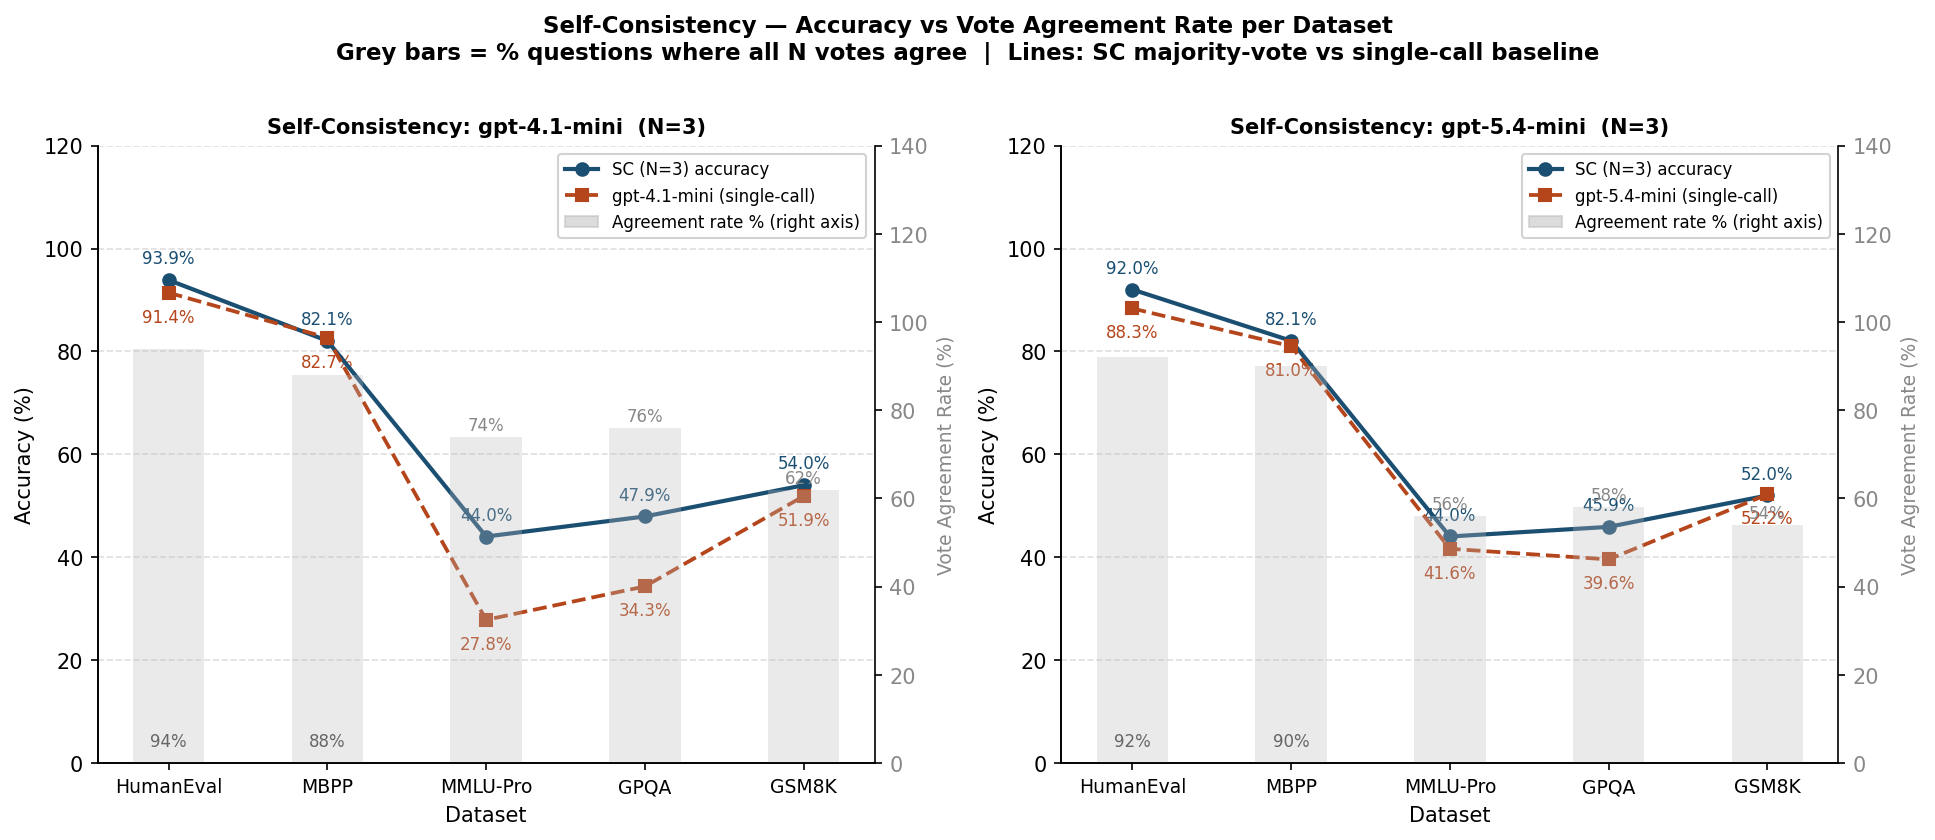
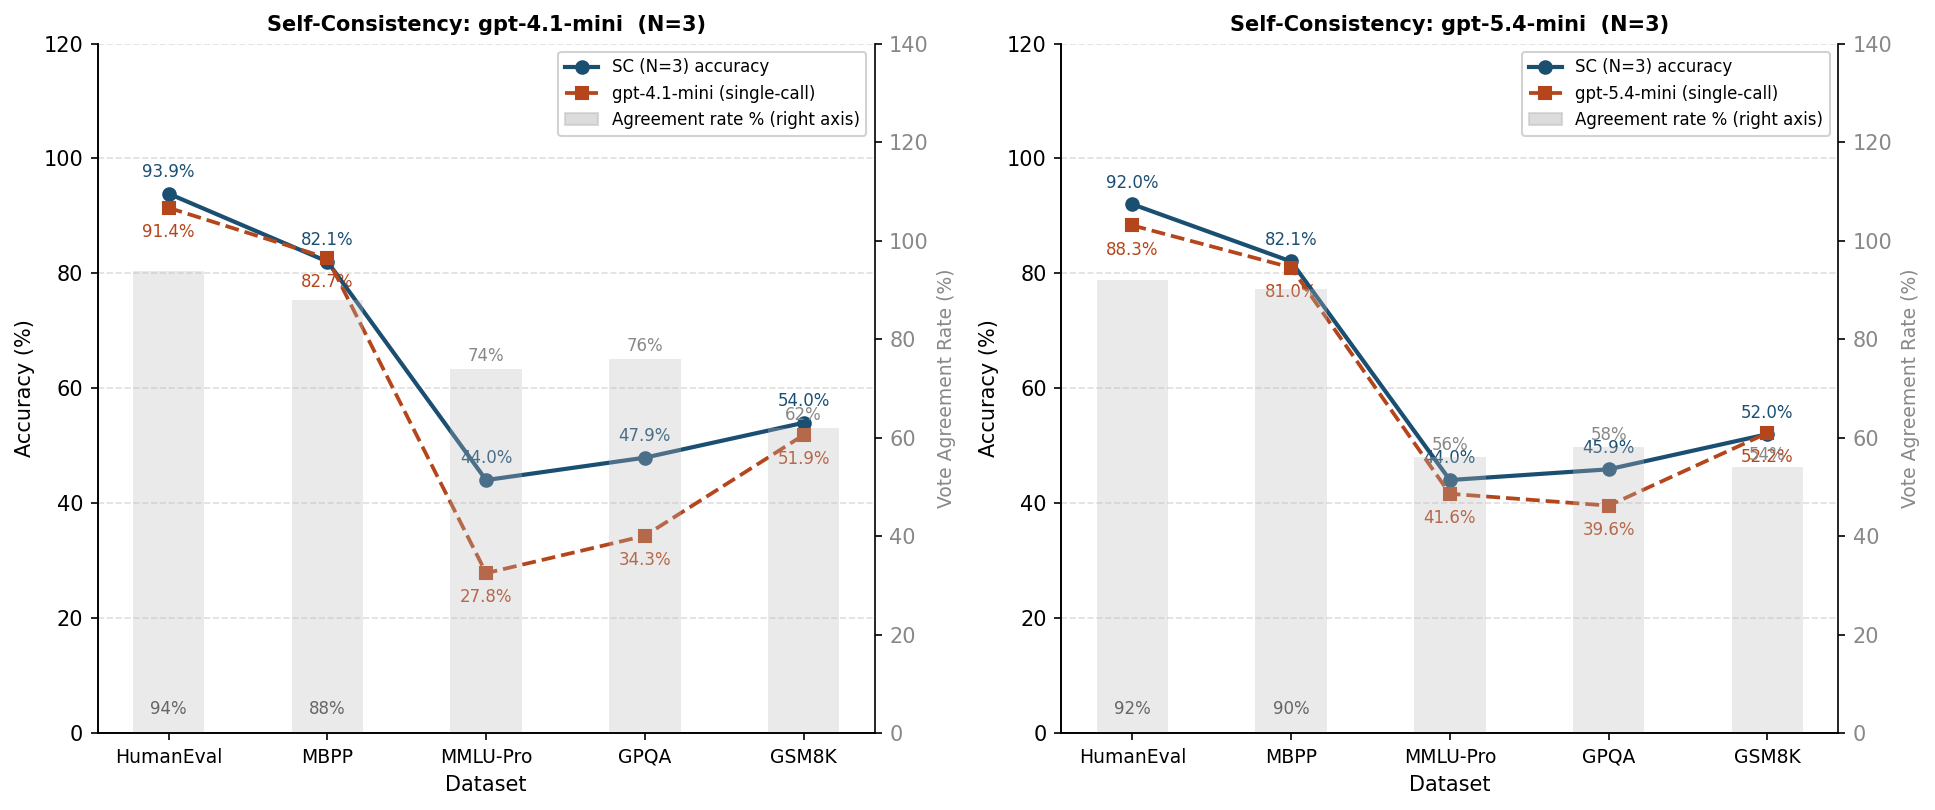
chart headers modified

diff --git a/visualize.py b/visualize.py
@@ -24,7 +24,7 @@ Self-consistency charts (SC prefix):
   SC2. chartSC2_selfcons_dual_heatmap.png              — Reward & cost heatmap (SC configs vs standalone)
   SC3. chartSC3_selfcons_best_config_heatmap.png       — Heatmap: best option (SC OR standalone) by (λ_error, λ_latency)
   SC4. chartSC4_selfcons_reward_vs_lambda_error.png    — Penalty vs λ_error: SC vs base model
-  SC6. chartSC6_selfcons_accuracy_comparison.png        — Grouped bar: accuracy per dataset, SC vs standalone
+  SC5. chartSC5_selfcons_accuracy_comparison.png        — Grouped bar: accuracy per dataset, SC vs standalone
 
 Router charts (R prefix):
   R1.  chartR1_router_overview.png                — Accuracy + routing split per dataset
@@ -484,13 +484,8 @@ def chart5_reward_vs_lambda_error(model_folders: dict):
     ax.axvline(LAMBDA_ERROR_DEFAULT, color="gray", linestyle=":", lw=1, label=f"default λ_error={LAMBDA_ERROR_DEFAULT}")
     ax.set_xlabel("λ_error  (error penalty weight)")
     ax.set_ylabel("Economic Penalty  (lower = better)")
-    # Build legend with model lines + reasoning/standard type indicators
     handles, labels = ax.get_legend_handles_labels()
-    type_handles = [
-        plt.Line2D([0], [0], color="gray", lw=2, linestyle="--", label="Reasoning model"),
-        plt.Line2D([0], [0], color="gray", lw=2, linestyle="-",  label="Standard model"),
-    ]
-    ax.legend(handles=handles + type_handles, labels=labels + ["Reasoning model", "Standard model"],
+    ax.legend(handles=handles, labels=labels,
               fontsize=8, framealpha=0.8, loc="upper left",
               bbox_to_anchor=(1.01, 1), borderaxespad=0)
     ax.yaxis.grid(True, linestyle="--", alpha=0.4)
@@ -547,13 +542,8 @@ def chart6_reward_vs_lambda_latency(model_folders: dict):
     ax.axvline(LAMBDA_LATENCY_DEFAULT, color="gray", linestyle=":", lw=1, label=f"default λ_latency={LAMBDA_LATENCY_DEFAULT}")
     ax.set_xlabel("λ_latency  (latency penalty weight)")
     ax.set_ylabel("Economic Penalty  (lower = better)")
-    # Build legend with model lines + reasoning/standard type indicators
     handles, labels = ax.get_legend_handles_labels()
-    type_handles = [
-        plt.Line2D([0], [0], color="gray", lw=2, linestyle="--", label="Reasoning model"),
-        plt.Line2D([0], [0], color="gray", lw=2, linestyle="-",  label="Standard model"),
-    ]
-    ax.legend(handles=handles + type_handles, labels=labels + ["Reasoning model", "Standard model"],
+    ax.legend(handles=handles, labels=labels,
               fontsize=8, framealpha=0.8, loc="upper left",
               bbox_to_anchor=(1.01, 1), borderaxespad=0)
     ax.set_yticks(ytick_pos)
@@ -614,7 +604,7 @@ def chart7_best_model_heatmap(model_folders: dict):
     ax.set_yticklabels([f"{lam_lats[t]:.3f}" for t in y_ticks])
     ax.set_xlabel("λ_error  (error penalty weight)")
     ax.set_ylabel("λ_latency  (latency penalty weight)")
-    ax.set_title("Best Model Decision Map\n(cell colour = model with highest macro-avg reward)")
+    ax.set_title("Best Model Decision Map\n(cell colour = option with highest macro-avg reward)")
 
     # Mark default operating point
     def_e = np.argmin(np.abs(lam_errors - LAMBDA_ERROR_DEFAULT))
@@ -687,7 +677,7 @@ def chart8_best_model_heatmap_per_dataset(model_folders: dict):
         ax.set_xticklabels([f"{lam_errors[t]:.1f}" for t in x_ticks], fontsize=8)
         ax.set_yticks(y_ticks)
         ax.set_yticklabels([f"{lam_lats[t]:.3f}" for t in y_ticks], fontsize=8)
-        ax.set_title(stem.upper(), fontsize=11, fontweight="bold")
+        ax.set_title(stem.upper(), fontsize=11)
         if col == 0:
             ax.set_ylabel("λ_latency", fontsize=9)
         if row == nrows - 1:
@@ -712,8 +702,8 @@ def chart8_best_model_heatmap_per_dataset(model_folders: dict):
 
     fig.suptitle(
         "Best Standalone Model per Dataset\n"
-        "(cell colour = model with highest avg reward at that λ_error × λ_latency)",
-        fontsize=13, fontweight="bold",
+        "(cell colour = option with highest macro-avg reward)",
+        fontsize=13,
     )
     fig.tight_layout(rect=[0, 0.06, 1, 1])
     _save(fig, "chart8_best_model_heatmap_per_dataset.png")
@@ -978,12 +968,6 @@ def chart_c1_cascade_combined_overview(cascade_data: dict):
         row, col = divmod(idx, ncols)
         axes[row][col].set_visible(False)
 
-    fig.suptitle(
-        "Cascade — Escalation Rate & Accuracy across Confidence Thresholds\n"
-        "Grey bars = % questions sent to large model  |  "
-        "Lines = accuracy  |  n=X = actual number of escalated questions",
-        fontsize=11, fontweight="bold", y=1.01,
-    )
     fig.tight_layout()
     _save(fig, "chartC1_cascade_combined_overview.png")
 
@@ -1055,8 +1039,6 @@ def chart_c2_cascade_dual_heatmap(cascade_data: dict):
                          "RdYlGn_r", "Avg Cost (m$)")
     fig.colorbar(im2, ax=ax2, shrink=0.8, label="Avg Cost (m$)")
 
-    fig.suptitle("Cascade: Reward vs Cost by Configuration × Threshold",
-                 fontsize=13, fontweight="bold", y=1.01)
     fig.tight_layout()
     _save(fig, "chartC2_cascade_dual_heatmap.png")
 
@@ -1179,7 +1161,7 @@ def chart_c3_cascade_best_config_heatmap(model_folders: dict):
     ax.set_ylabel("λ_latency  (latency penalty weight)", fontsize=11)
     ax.set_title(
         "Best Option Decision Map: Cascade vs Standalone\n"
-        "(cell colour = option with highest macro-avg reward at those penalty weights)",
+        "(cell colour = option with highest macro-avg reward)",
         fontsize=12, fontweight="bold",
     )
 
@@ -1371,7 +1353,7 @@ def chart_c6_cascade_per_dataset_decision_map(model_folders: dict):
 
     fig.suptitle(
         "Cascade: Best Option Decision Map — Per Dataset\n"
-        "(cell = option with highest reward at those λ_error × λ_latency weights)",
+        "(cell colour = option with highest macro-avg reward)",
         fontsize=12, fontweight="bold",
     )
     fig.tight_layout()
@@ -1485,12 +1467,6 @@ def chart_c4_cascade_reward_vs_lambda_error():
         row, col = divmod(idx, ncols)
         axes[row][col].set_visible(False)
 
-    fig.suptitle(
-        "Cascade: Economic Penalty vs λ_error\n"
-        "Each panel = one small→large config pair  |  "
-        "Lines = confidence threshold (T=60 / 75 / 90)",
-        fontsize=12, fontweight="bold", y=1.01,
-    )
     fig.tight_layout()
     _save(fig, "chartC4_cascade_reward_vs_lambda_error.png")
 
@@ -1610,12 +1586,6 @@ def chart_c5_cascade_reward_vs_lambda_latency():
         row, col = divmod(idx, ncols)
         axes[row][col].set_visible(False)
 
-    fig.suptitle(
-        "Cascade: Economic Penalty vs λ_latency\n"
-        "Each panel = one small→large config pair  |  "
-        "Lines = confidence threshold (T=60 / 75 / 90)",
-        fontsize=12, fontweight="bold", y=1.01,
-    )
     fig.tight_layout()
     _save(fig, "chartC5_cascade_reward_vs_lambda_latency.png")
 
@@ -1830,12 +1800,6 @@ def chart_sc1_selfcons_overview(sc_data: dict, model_folders: dict):
         row, col = divmod(idx, ncols)
         axes[row][col].set_visible(False)
 
-    fig.suptitle(
-        "Self-Consistency — Accuracy vs Vote Agreement Rate per Dataset\n"
-        "Grey bars = % questions where all N votes agree  |  "
-        "Lines: SC majority-vote vs single-call baseline",
-        fontsize=11, fontweight="bold", y=1.01,
-    )
     fig.tight_layout()
     _save(fig, "chartSC1_selfcons_overview.png")
 
@@ -1934,8 +1898,6 @@ def chart_sc2_selfcons_dual_heatmap(sc_data: dict, model_folders: dict):
     ax2.set_xlabel("Dataset", fontsize=10)
     fig.colorbar(im2, ax=ax2, shrink=0.8, label="Avg Cost (m$)")
 
-    fig.suptitle("Self-Consistency vs Standalone: Reward & Cost by Dataset",
-                 fontsize=13, fontweight="bold", y=1.01)
     fig.tight_layout()
     _save(fig, "chartSC2_selfcons_dual_heatmap.png")
 
@@ -2026,7 +1988,7 @@ def chart_sc3_selfcons_best_config_heatmap(sc_data: dict, model_folders: dict):
     ax.set_ylabel("λ_latency  (latency penalty weight)", fontsize=11)
     ax.set_title(
         "Best Option Decision Map: Self-Consistency vs Standalone\n"
-        "(cell colour = option with highest macro-avg reward at those penalty weights)",
+        "(cell colour = option with highest macro-avg reward)",
         fontsize=12, fontweight="bold",
     )
 
@@ -2205,11 +2167,6 @@ def chart_sc4_selfcons_reward_vs_lambda_error(sc_data: dict, model_folders: dict
         row, col = divmod(idx, ncols)
         axes[row][col].set_visible(False)
 
-    fig.suptitle(
-        "Self-Consistency: Economic Penalty vs λ_error\n"
-        "Solid = SC majority-vote  |  Dashed = single-call base model",
-        fontsize=12, fontweight="bold", y=1.01,
-    )
     fig.tight_layout()
     _save(fig, "chartSC4_selfcons_reward_vs_lambda_error.png")
 
@@ -2218,7 +2175,7 @@ def chart_sc4_selfcons_reward_vs_lambda_error(sc_data: dict, model_folders: dict
 # Chart SC6 — SC vs standalone accuracy comparison (grouped bar per dataset)
 # ---------------------------------------------------------------------------
 
-def chart_sc6_selfcons_accuracy_comparison(sc_data: dict, model_folders: dict):
+def chart_sc5_selfcons_accuracy_comparison(sc_data: dict, model_folders: dict):
     """
     SC6: Grouped bar chart — accuracy per dataset for every SC config and its
     matched standalone base model, all side-by-side so gains/losses are
@@ -2304,13 +2261,8 @@ def chart_sc6_selfcons_accuracy_comparison(sc_data: dict, model_folders: dict):
         fontsize=9, framealpha=0.88,
         loc="upper left", bbox_to_anchor=(1.01, 1), borderaxespad=0,
     )
-    fig.suptitle(
-        "Self-Consistency vs Single-Call: Accuracy per Dataset\n"
-        "Solid bars = SC majority-vote  |  Hatched bars = single-call base model",
-        fontsize=12, fontweight="bold",
-    )
     fig.tight_layout()
-    _save(fig, "chartSC6_selfcons_accuracy_comparison.png")
+    _save(fig, "chartSC5_selfcons_accuracy_comparison.png")
 
 
 # ===========================================================================
@@ -2502,12 +2454,6 @@ def chart_r1_router_overview(router_data: dict, model_folders: dict):
         row, col = divmod(idx, ncols)
         axes[row][col].set_visible(False)
 
-    fig.suptitle(
-        "LLM-as-Router — Accuracy vs Routing Distribution per Dataset\n"
-        "Grey bars = % queries sent to large model  |  "
-        "Lines: router vs small/large standalone",
-        fontsize=11, fontweight="bold", y=1.01,
-    )
     fig.tight_layout()
     _save(fig, "chartR1_router_overview.png")
 
@@ -2583,8 +2529,6 @@ def chart_r2_router_dual_heatmap(router_data: dict, model_folders: dict):
     ax2.set_xlabel("Dataset", fontsize=10)
     fig.colorbar(im2, ax=ax2, shrink=0.8, label="Avg Cost (m$)")
 
-    fig.suptitle("LLM-as-Router: Reward & Cost by Dataset",
-                 fontsize=13, fontweight="bold", y=1.01)
     fig.tight_layout()
     _save(fig, "chartR2_router_dual_heatmap.png")
 
@@ -2667,7 +2611,7 @@ def chart_r3_router_best_config_heatmap(router_data: dict, model_folders: dict):
     ax.set_ylabel("λ_latency  (latency penalty weight)", fontsize=11)
     ax.set_title(
         "Best Option Decision Map: LLM-as-Router vs Standalone\n"
-        "(cell colour = option with highest macro-avg reward at those penalty weights)",
+        "(cell colour = option with highest macro-avg reward)",
         fontsize=12, fontweight="bold",
     )
 
@@ -2819,7 +2763,7 @@ def chart_r6_router_per_dataset_decision_map(router_data: dict, model_folders: d
 
     fig.suptitle(
         "Router: Best Option Decision Map — Per Dataset\n"
-        "(cell = option with highest reward at those λ_error × λ_latency weights)",
+        "(cell colour = option with highest macro-avg reward)",
         fontsize=12, fontweight="bold",
     )
     fig.tight_layout()
@@ -2926,11 +2870,6 @@ def chart_r4_router_reward_vs_lambda_error(router_data: dict, model_folders: dic
         row, col = divmod(idx, ncols)
         axes[row][col].set_visible(False)
 
-    fig.suptitle(
-        "LLM-as-Router: Economic Penalty vs λ_error\n"
-        "Solid = router  |  Dashed = small standalone  |  Dotted = large standalone",
-        fontsize=12, fontweight="bold", y=1.01,
-    )
     fig.tight_layout()
     _save(fig, "chartR4_router_reward_vs_lambda_error.png")
 
@@ -3053,11 +2992,6 @@ def chart_r5_router_reward_vs_lambda_latency(router_data: dict, model_folders: d
         row, col = divmod(idx, ncols)
         axes[row][col].set_visible(False)
 
-    fig.suptitle(
-        "LLM-as-Router: Economic Penalty vs λ_latency\n"
-        "Solid = router  |  Dashed = small standalone  |  Dotted = large standalone",
-        fontsize=12, fontweight="bold", y=1.01,
-    )
     fig.tight_layout()
     _save(fig, "chartR5_router_reward_vs_lambda_latency.png")
 
@@ -3109,7 +3043,7 @@ if __name__ == "__main__":
         chart_sc2_selfcons_dual_heatmap(sc_data, model_folders)
         chart_sc3_selfcons_best_config_heatmap(sc_data, model_folders)
         chart_sc4_selfcons_reward_vs_lambda_error(sc_data, model_folders)
-        chart_sc6_selfcons_accuracy_comparison(sc_data, model_folders)
+        chart_sc5_selfcons_accuracy_comparison(sc_data, model_folders)
     else:
         print("  No self-consistency results found. Run optimizer.py --selfcons first.")
 
